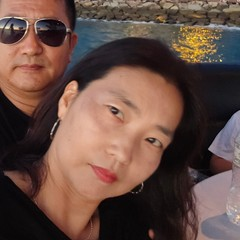
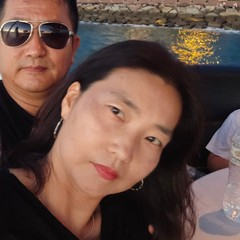
feat(face-video-sync): enable real-name face recognition across both photos and video keyframes

diff --git a/src/components/FaceMemberRegistryModal.tsx b/src/components/FaceMemberRegistryModal.tsx
@@ -107,7 +107,7 @@ function getClusterYearlyCuts(cluster: FaceMemberCluster): YearlyFaceBestCut[] {
  * 즉시 "[이름] 나무 다리", "[이름] 선글라스" 실명 사진 검색을 체험하는 컴포넌트
  */
 export const FaceMemberInlineBar: React.FC<{
-  onRunRealNameQuery: (query: string) => void;
+  onRunRealNameQuery: (query: string, targetSpace?: 'gallery' | 'video') => void;
 }> = ({ onRunRealNameQuery }) => {
   const {
     faceClusters,
@@ -162,10 +162,10 @@ export const FaceMemberInlineBar: React.FC<{
           className="flex items-center gap-2.5 text-left min-w-0 flex-1"
         >
           <span className="px-2 py-0.5 rounded-md bg-zinc-900 border border-white/10 text-primary-container font-label-sm text-[11px] font-bold shrink-0">
-            자율 얼굴 검출 · 연도별 베스트 누적
+            사진 · 동영상 통합 얼굴 인식
           </span>
           <span className="font-label-md text-[12.5px] md:text-[13px] text-zinc-100 font-bold truncate">
-            🎯 사진에서 {visibleClusters.length}명의 얼굴을 자동 추출했습니다 ({latestCorpusYear}년 대표컷 + 과거 연도 베스트 컷 자동 누적). 이름을 등록해 볼까요?
+            🎯 {visibleClusters.length}명의 얼굴을 자동 추출했습니다 ({latestCorpusYear}년 대표컷 + 과거 연도 베스트 컷 누적 · 동영상 구간 자동 연동)
           </span>
         </button>
 
@@ -318,10 +318,13 @@ export const FaceMemberInlineBar: React.FC<{
                         )}
                       </div>
                       <p className="font-body-sm text-[11px] text-zinc-400 truncate mt-0.5">
-                        사진 {cluster.matchedPhotoCount}장 · {yearlyCuts.length}개 연도 베스트 누적
+                        사진 {cluster.matchedPhotoCount}장
+                        {cluster.matchedVideoSegmentCount > 0
+                          ? ` · 영상 ${cluster.matchedVideoSegmentCount}구간`
+                          : ''}
                       </p>
                       <p className="font-mono text-[10px] text-zinc-500 truncate">
-                        {activeCut.representativeDate} 대표컷
+                        {activeCut.representativeDate} 대표컷 ({yearlyCuts.length}개 연도)
                       </p>
                     </div>
                   </div>
@@ -364,12 +367,12 @@ export const FaceMemberInlineBar: React.FC<{
             })}
           </div>
 
-          {/* 등록 즉시 활성화되는 실명 + 장면 자연어 사진 검색 원터치 체험 바 */}
+          {/* 등록 즉시 활성화되는 실명 + 장면 자연어 사진 & 동영상 구간 점프 원터치 체험 바 */}
           {registeredClusters.length > 0 && (
             <div className="px-3.5 py-2.5 rounded-xl bg-zinc-900/90 border border-white/10 flex flex-wrap items-center justify-between gap-2">
               <div className="flex items-center gap-1.5 flex-wrap">
                 <span className="font-label-sm text-[11.5px] text-primary-container font-bold mr-1">
-                  ⚡ 등록 실명 + 장면 즉시 검색 (0.04초):
+                  ⚡ 실명 사진 검색 &amp; 동영상 구간 점프 (0.04초):
                 </span>
                 {registeredClusters.map((rc) => {
                   const name = rc.registeredName.trim();
@@ -379,28 +382,45 @@ export const FaceMemberInlineBar: React.FC<{
                   const isGlassesYouth = pKey.includes('glasses') || /안경/.test(rc.appearanceLabelKo);
                   const isYoungBoy = pKey.includes('child_son');
 
-                  const queries = isAdultMale
+                  const photoQueries = isAdultMale
                     ? [`${name} 나무 다리`, `${name} 바다`]
                     : isAdultFemale
                     ? [`${name} 나무 다리`, `${name} 선글라스`]
                     : isGlassesYouth
-                    ? [`${name} 박물관`, `${name} 식당`]
+                    ? [`${name} 박물관`]
                     : isYoungBoy
-                    ? [`${name} 물놀이`, `${name} 해변`]
+                    ? [`${name} 물놀이`]
                     : [`${name}`];
+
+                  const videoQuery = isAdultMale
+                    ? `${name} 패러세일링`
+                    : isAdultFemale
+                    ? `${name} 테라스`
+                    : '';
 
                   return (
                     <React.Fragment key={rc.clusterId}>
-                      {queries.map((qText) => (
+                      {photoQueries.map((qText) => (
                         <button
                           key={qText}
                           type="button"
-                          onClick={() => onRunRealNameQuery(qText)}
+                          onClick={() => onRunRealNameQuery(qText, 'gallery')}
                           className="px-2.5 py-1 rounded-lg bg-zinc-950 hover:bg-zinc-800 border border-white/10 text-zinc-100 font-label-sm text-[11.5px] flex items-center gap-1 transition-colors"
                         >
                           <span>🖼 “{qText}”</span>
                         </button>
                       ))}
+                      {rc.matchedVideoSegmentCount > 0 && videoQuery && (
+                        <button
+                          type="button"
+                          onClick={() => onRunRealNameQuery(videoQuery, 'video')}
+                          className="px-2.5 py-1 rounded-lg bg-zinc-950 hover:bg-zinc-800 border border-primary-container/30 text-primary-container font-label-sm text-[11.5px] flex items-center gap-1 transition-colors"
+                        >
+                          <span>
+                            🎬 “{videoQuery}” (영상 {rc.matchedVideoSegments[0]?.timestampText ?? '00:00'} 구간)
+                          </span>
+                        </button>
+                      )}
                     </React.Fragment>
                   );
                 })}

diff --git a/src/components/VoiceHeroStage.tsx b/src/components/VoiceHeroStage.tsx
@@ -407,13 +407,13 @@ export const VoiceHeroStage: React.FC = () => {
         </div>
       </div>
 
-      {/* ─────────────── [라운지 마스터 Step 1 인라인 바] 사진(전체 갤러리) 모드에서만 작동하는 자율 얼굴 검출 & 인터랙티브 실명 등록 ─────────────── */}
-      {searchSpace === 'gallery' && (
+      {/* ─────────────── [라운지 마스터 Step 1 인라인 바] 사진(전체 갤러리) 및 동영상 장면 모드에서 작동하는 자율 얼굴 검출 & 인터랙티브 실명 등록 ─────────────── */}
+      {(searchSpace === 'gallery' || searchSpace === 'video') && (
         <FaceMemberInlineBar
-          onRunRealNameQuery={(query) => {
+          onRunRealNameQuery={(query, targetSpace = 'gallery') => {
             setTextInput(query);
             setIsBriefingOpen(false);
-            setSearchSpace('gallery');
+            setSearchSpace(targetSpace);
             void runTextQuery(query);
             scrollToResults();
           }}

diff --git a/src/components/LoungeView.tsx b/src/components/LoungeView.tsx
@@ -637,9 +637,9 @@ export const LoungeView: React.FC = () => {
 
         {/* 실제 Canvas 얼굴 크롭 & 인터랙티브 이름 등록 인라인 바 */}
         <FaceMemberInlineBar
-          onRunRealNameQuery={(query) => {
+          onRunRealNameQuery={(query, targetSpace = 'gallery') => {
             setDesktopTab('dashboard');
-            setSearchSpace('gallery');
+            setSearchSpace(targetSpace);
             void runTextQuery(query);
           }}
         />
